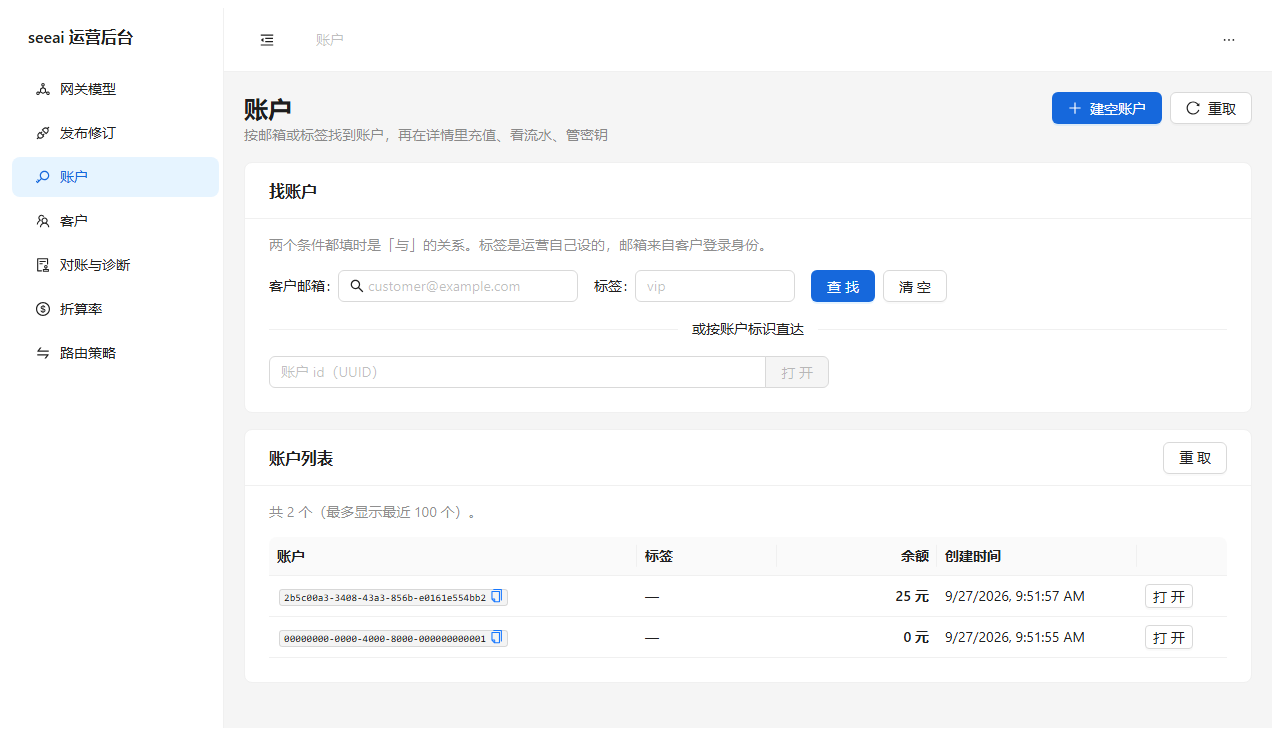
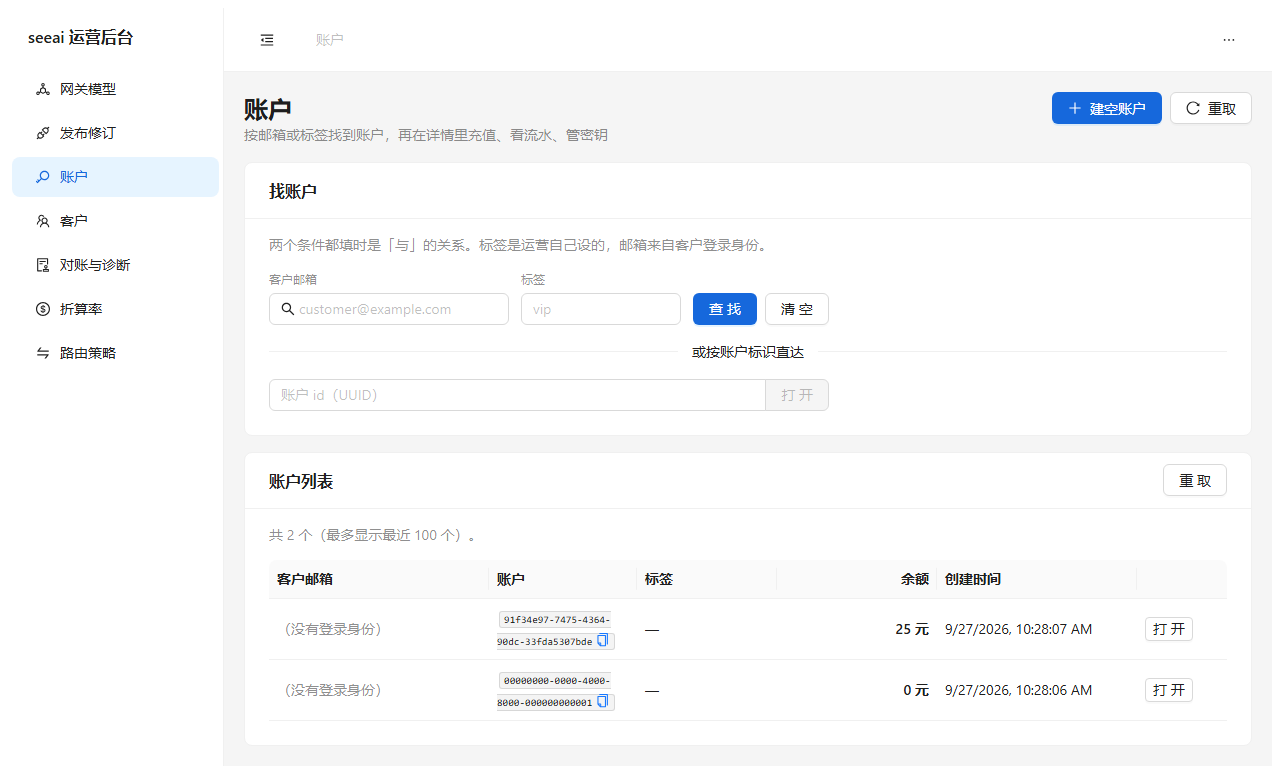
feat(admin): 账户列表显示客户邮箱；补一条"不需抄标识就能充值"的用例
按邮箱搜出来的行原来**看不到邮箱**——列表只印账户标识，运营搜出来也不知道是谁。加一列客户邮箱
（客户身份那边取；没有登录身份的账户如实写"（没有登录身份）"，不留空白让人以为是加载失败）。

## 搜索表单改成普通状态

原来是 antd 的 `Form` + `onFinish`，但"查找"点了不触发提交（实测：`onFinish` 没被调用，请求里没有
`email` 参数，列表照旧是全量）。这一处只需要"两个输入框 + 一个动作"、取点击那一刻的值，不需要校验也
不需要受控字段，所以换成普通 `useState` + 一个按钮。少一层托管就少一处说不清。

顺带把"按标识直达"那一格从搜索表单里挪出来——**一个表单里塞第二个动作**本来就别扭。

## 新增用例

`admin-tops-up-without-the-identifier`：用邮箱搜到账户、在列表里确认是它、打开详情充值，核对余额与
流水都反映了这次充值。覆盖 Spec V-D10 的实质（"不需要先知道账户标识"是流程事实，接口层看不见）。

## 两个只有真浏览器才暴露的坑（写在用例注释里）

- 抽屉是**滚动容器**，底部按钮会落在视口之外——Playwright 的自动滚动没生效，要显式
  `scrollIntoViewIfNeeded()`。这一步用 `force: true` 试出来的（它报的就是 "outside of the viewport"）；
- antd 的 `getByRole('button')` 在这个抽屉里会**挂住 60 秒**不返回，换 `data-testid` 才稳。

## 验证

`npx playwright test` **16 passed，连跑两次都绿**；`npx tsc --noEmit` 通过；`npm run build` 通过且
产物隔离核对通过。

diff --git a/apps/web/src/console/pages/Accounts.tsx b/apps/web/src/console/pages/Accounts.tsx
@@ -32,12 +32,18 @@ import { ConsolePage, Panel, whenText, yuanText } from '../ui';
 /// 口径见 `docs/design/0011-console-information-architecture.md` §1.2 与 §3.2。
 export function AccountsPage({ client }: { client: AdminClient }) {
   const { message } = AntApp.useApp();
+  const [email, setEmail] = useState('');
+  const [tag, setTag] = useState('');
   const [directId, setDirectId] = useState('');
   const [filter, setFilter] = useState<{ email?: string; tag?: string }>({});
   const [selected, setSelected] = useState<string | null>(null);
   const [creating, setCreating] = useState(false);
 
   const accounts = useLoadable(() => client.listAccounts({ ...filter, limit: 100 }), [client, filter]);
+  // 邮箱在客户身份那边。列表要能显示它：运营是**按邮箱**找账户的，搜出来的行必须能确认是谁。
+  const customers = useLoadable(() => client.listCustomers(200), [client]);
+  const emailOf = (accountId: string): string | null =>
+    customers.data?.customers.find((item) => item.account_id === accountId)?.email ?? null;
 
   async function createAccount(initialMicros: number) {
     setCreating(true);
@@ -72,46 +78,57 @@ export function AccountsPage({ client }: { client: AdminClient }) {
       }
     >
       <Panel title="找账户" description="两个条件都填时是「与」的关系。标签是运营自己设的，邮箱来自客户登录身份。">
-        <Form
-          layout="inline"
-          onFinish={(values: { email?: string; tag?: string }) => {
-            // 存进 state 的是**提交时**的取值：输入框每敲一个字就重取一次列表既慢又吵。
-            setFilter({ email: values.email, tag: values.tag });
-          }}
-        >
-          <Form.Item name="email" label="客户邮箱">
+        {/* 用普通表单而不是 antd 的 `Form`：这一处只需要"两个输入框 + 一个动作"，
+            取的是**点击那一刻**的值，不需要校验、不需要受控字段。少一层托管就少一处说不清。 */}
+        <Flex gap={12} wrap align="flex-end">
+          <Flex vertical gap={4}>
+            <Typography.Text type="secondary" style={{ fontSize: 12 }}>
+              客户邮箱
+            </Typography.Text>
             <Input
               data-testid="accounts-lookup-email"
               prefix={<SearchOutlined />}
               placeholder="customer@example.com"
+              value={email}
+              onChange={(event) => setEmail(event.target.value)}
+              onPressEnter={() => setFilter({ email, tag })}
               style={{ width: 240 }}
               allowClear
             />
-          </Form.Item>
-          <Form.Item name="tag" label="标签">
+          </Flex>
+          <Flex vertical gap={4}>
+            <Typography.Text type="secondary" style={{ fontSize: 12 }}>
+              标签
+            </Typography.Text>
             <Input
               data-testid="accounts-lookup-tag"
               placeholder="vip"
+              value={tag}
+              onChange={(event) => setTag(event.target.value)}
+              onPressEnter={() => setFilter({ email, tag })}
               style={{ width: 160 }}
               allowClear
             />
-          </Form.Item>
-          <Form.Item>
-            <Space>
-              <Button type="primary" htmlType="submit">
-                查找
-              </Button>
-              <Button
-                onClick={() => {
-                  setFilter({});
-                  accounts.reload();
-                }}
-              >
-                清空
-              </Button>
-            </Space>
-          </Form.Item>
-        </Form>
+          </Flex>
+          <Space>
+            <Button
+              data-testid="accounts-search"
+              type="primary"
+              onClick={() => setFilter({ email, tag })}
+            >
+              查找
+            </Button>
+            <Button
+              onClick={() => {
+                setEmail('');
+                setTag('');
+                setFilter({});
+              }}
+            >
+              清空
+            </Button>
+          </Space>
+        </Flex>
         {/* 收着旧的按 id 直达：列表不可用时（例如刚拿到一个 id）仍要能查。 */}
         <Divider plain style={{ marginBlock: 16 }}>
           或按账户标识直达
@@ -159,6 +176,20 @@ export function AccountsPage({ client }: { client: AdminClient }) {
             ),
           }}
           columns={[
+            {
+              title: '客户邮箱',
+              key: 'email',
+              width: 220,
+              render: (_value: unknown, account: AccountSummary) => {
+                const email = emailOf(account.account_id);
+                // 运营直接建的账户还没有登录身份——如实说"没有"，不显示空白让人以为是加载失败。
+                return email ? (
+                  <Typography.Text>{email}</Typography.Text>
+                ) : (
+                  <Typography.Text type="secondary">（没有登录身份）</Typography.Text>
+                );
+              },
+            },
             {
               title: '账户',
               dataIndex: 'account_id',
@@ -324,10 +355,19 @@ function AccountDetail({
             tooltip="幂等：同一个键只会充一次，误点两下不会充两次"
             rules={[{ required: true, message: '请填业务键' }]}
           >
-            <Input style={{ width: 200 }} placeholder="topup-2026-09-001" />
+            <Input
+              data-testid="accounts-credit-key"
+              style={{ width: 200 }}
+              placeholder="topup-2026-09-001"
+            />
           </Form.Item>
           <Form.Item>
-            <Button type="primary" htmlType="submit" loading={busy}>
+            <Button
+              data-testid="accounts-credit-submit"
+              type="primary"
+              htmlType="submit"
+              loading={busy}
+            >
               充值
             </Button>
           </Form.Item>

diff --git a/apps/web/e2e/admin-tops-up-without-the-identifier.spec.ts b/apps/web/e2e/admin-tops-up-without-the-identifier.spec.ts
@@ -1,0 +1,52 @@
+import { expect, test } from '@playwright/test';
+import { adminApiUrl, consoleUrl, settings } from './settings';
+
+/// **充值不需要先知道账户标识**（Spec V-D10）。
+///
+/// 运营手上没有 UUID，他们有的是客户邮箱或自己设的标签。这条从造一个带邮箱的客户开始，全程**不把
+/// 账户标识抄来抄去**：用邮箱搜到它、在列表里确认是它，再打开详情充值。
+///
+/// 为什么只有浏览器才验得出来：这条判据说的是"界面上不需要抄标识"，那是流程事实，接口层看不见
+/// （`cases_admin_surface` 验的是那条读本身能用，`admin-reads-fixture-data` 验的是页面读出库里的数）。
+test('用邮箱搜到账户并充值，不需要先知道账户标识', async ({ page, request }) => {
+  const email = `topup-${Date.now()}@example.com`;
+
+  // 先造一个带登录身份的账户（运营开户那条路径由「客户」页的用例覆盖）。
+  const opened = await request.post(`${adminApiUrl}/api/v1/customers`, {
+    headers: { authorization: `Bearer ${settings.adminToken}` },
+    data: { email, password: 'a-long-enough-password' },
+  });
+  expect(opened.status(), await opened.text()).toBe(201);
+  const accountId = ((await opened.json()) as { account_id: string }).account_id;
+
+  await page.goto(consoleUrl);
+  await page.getByTestId('admin-email').fill(settings.adminEmail);
+  await page.getByTestId('admin-password').fill(settings.adminPassword);
+  await page.getByTestId('admin-sign-in').click();
+  await page.locator('.ant-layout-sider').getByRole('menuitem', { name: '账户' }).click();
+
+  // **按邮箱搜**：筛选生效时列表只剩这一行，而且能看见邮箱——搜出来要能确认是谁。
+  await page.getByTestId('accounts-lookup-email').fill(email);
+  await page.getByTestId('accounts-search').click();
+  const body = page.locator('.ant-table-tbody');
+  await expect(body.getByRole('row')).toHaveCount(1);
+  await expect(body).toContainText(email);
+
+  // 打开详情（用"按标识直达"那一格）。
+  await page.getByTestId('accounts-lookup-id').fill(accountId);
+  await page.getByTestId('accounts-open-by-id').click();
+
+  // 详情里充值：按**元**填，界面换算成微单位。
+  await page.getByTestId('accounts-credit-yuan').fill('12.34');
+  await page.getByTestId('accounts-credit-key').fill(`topup-${Date.now()}`);
+  // 抽屉是滚动容器，按钮可能在视口之外；显式滚过去再点。
+  const submit = page.getByTestId('accounts-credit-submit');
+  await submit.scrollIntoViewIfNeeded();
+  await submit.click();
+
+  // 余额与流水都反映这次充值（不是只弹了个提示）。
+  await expect(page.locator('.ant-drawer').getByText('12.34 元').first()).toBeVisible({
+    timeout: 10_000,
+  });
+  await expect(page.locator('.ant-drawer').getByText('credit').first()).toBeVisible();
+});
